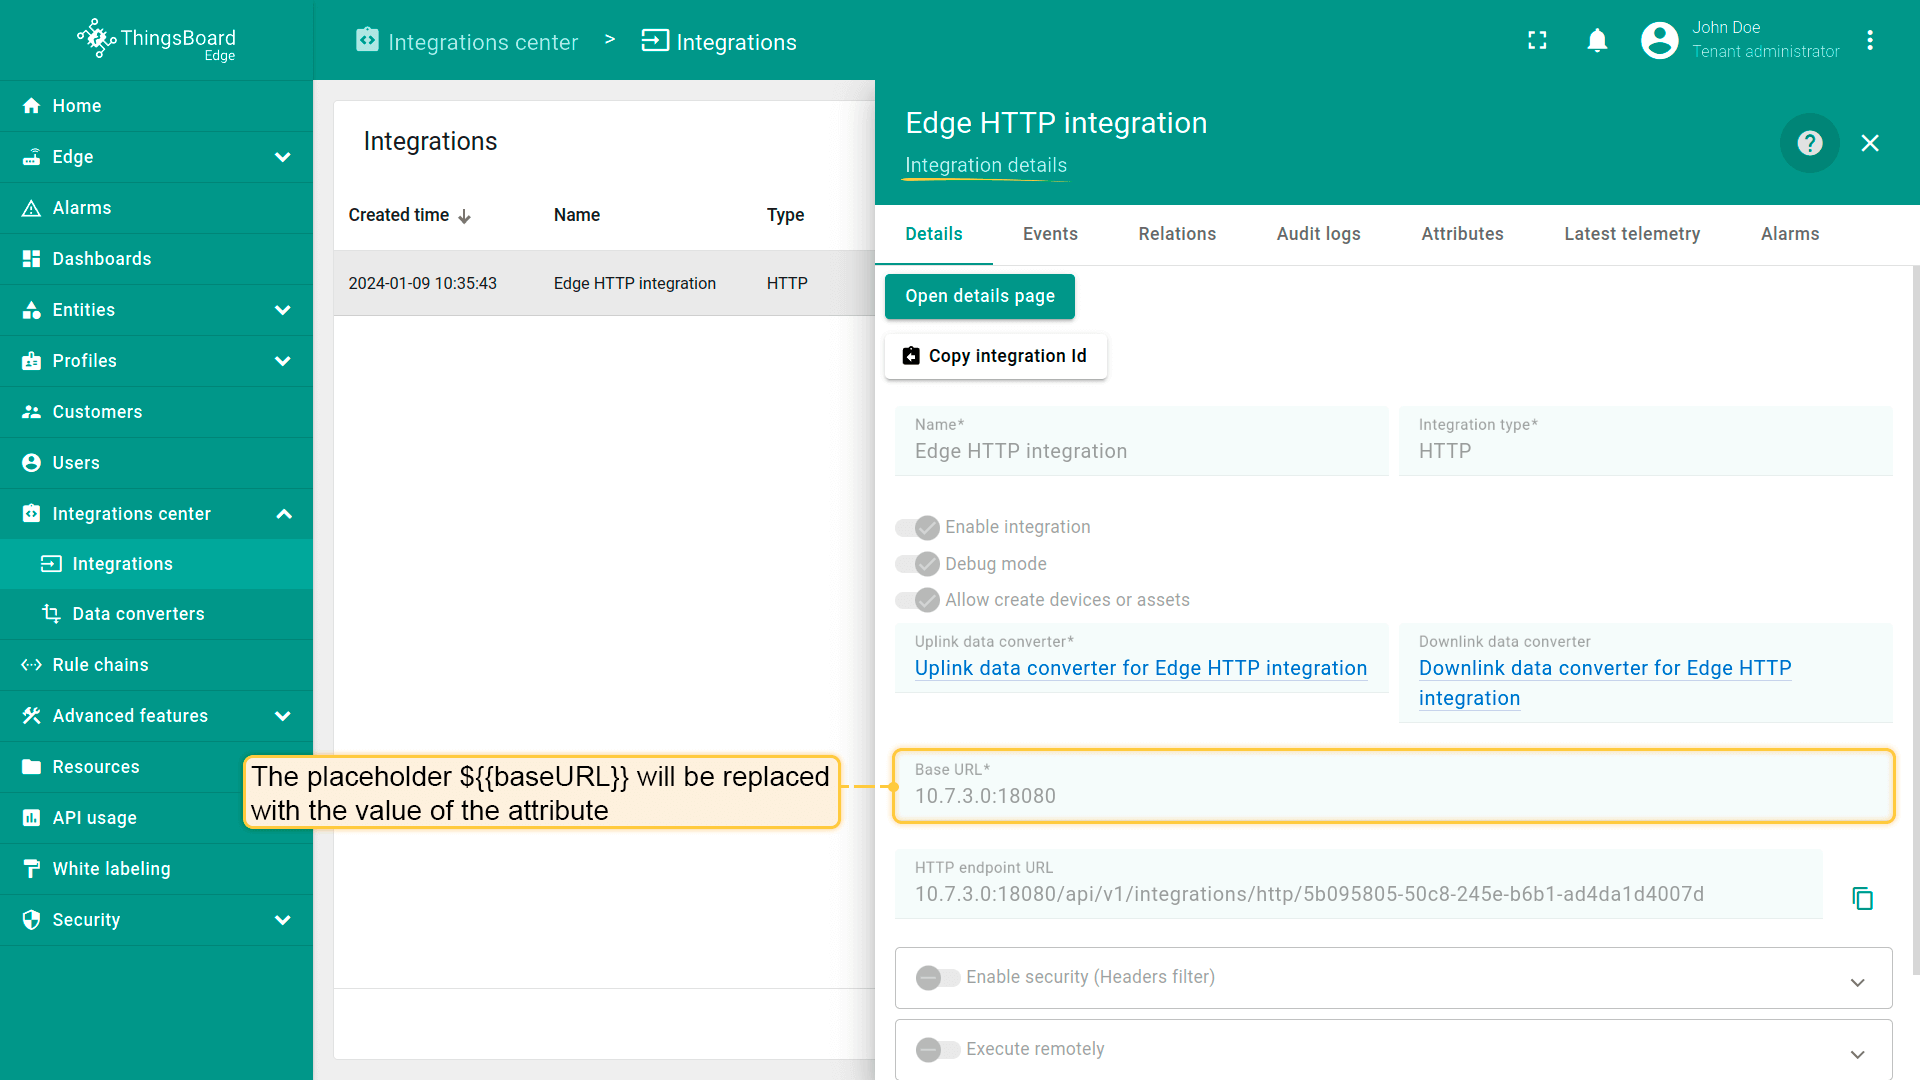
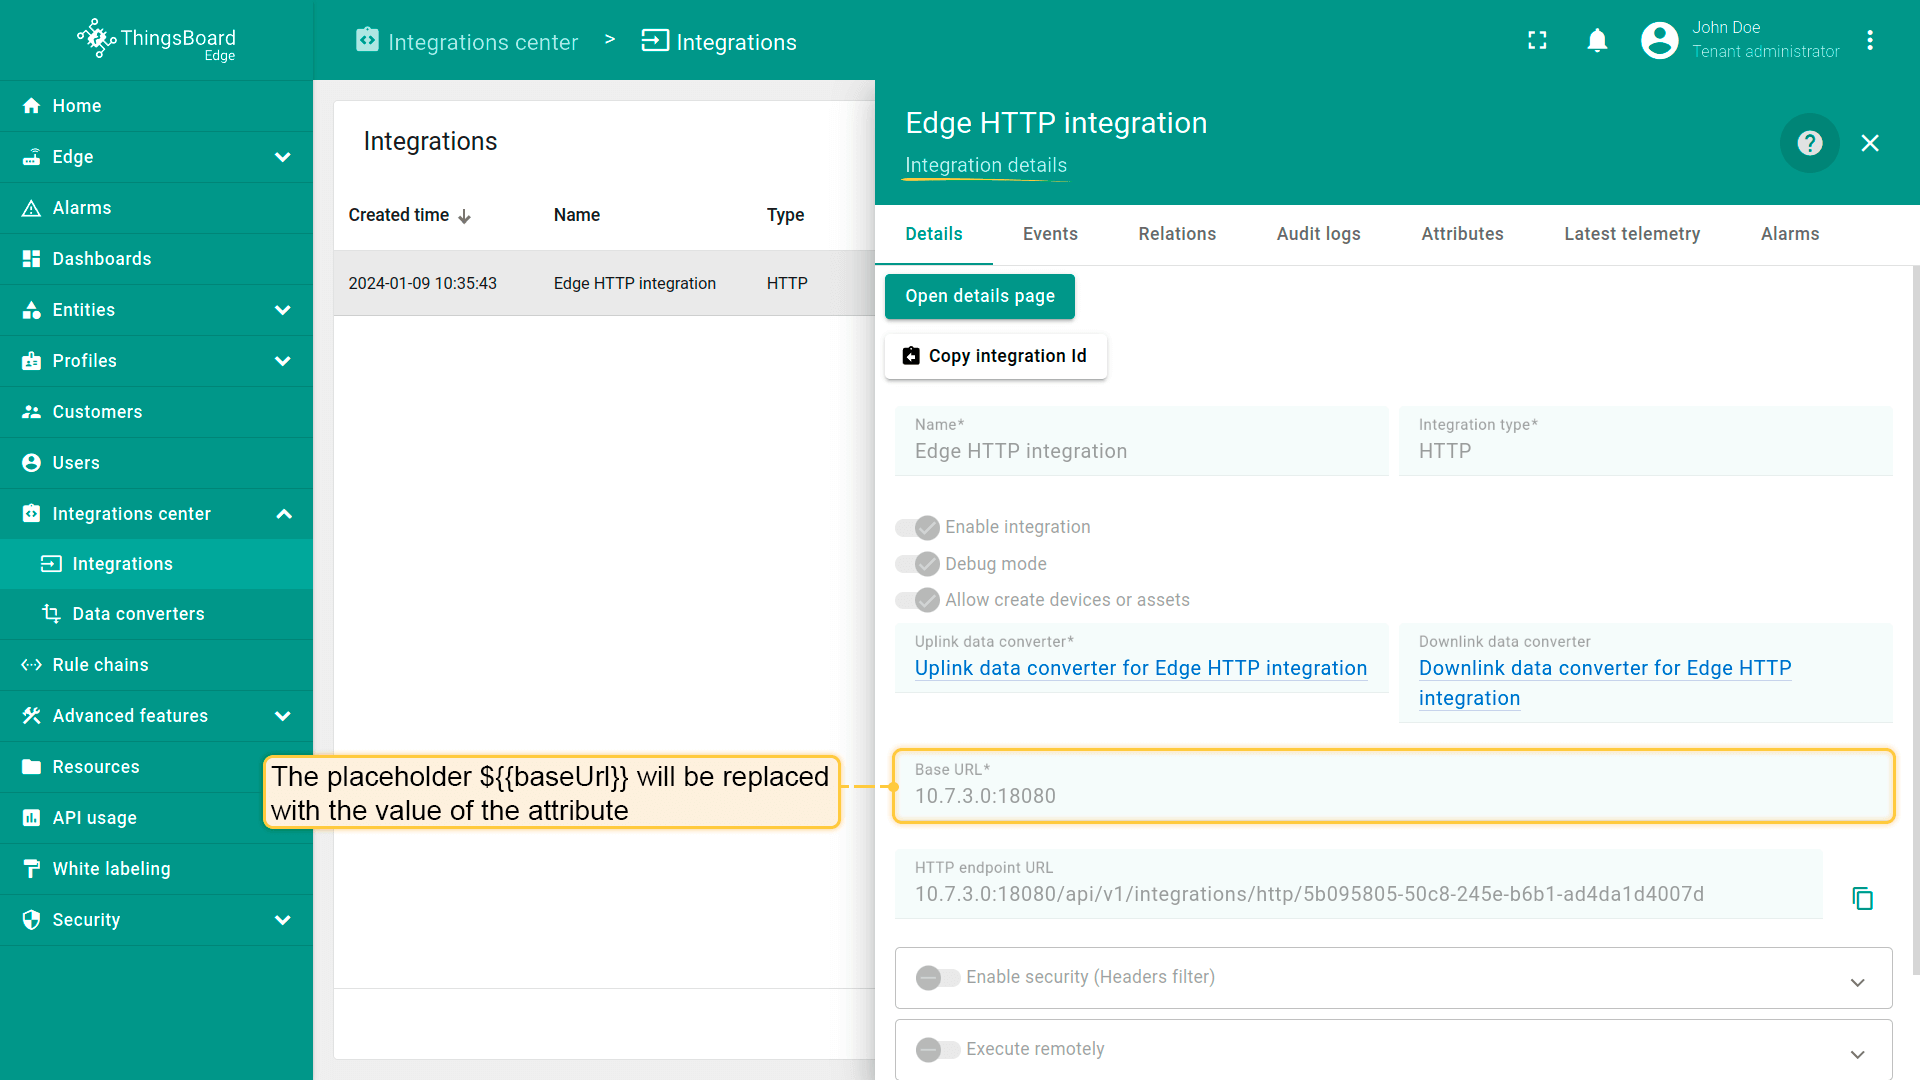
minor fixed text

Changed region(s): [[0.125, 0.7028, 0.3438, 0.7639], [0.4062, 0.7028, 0.4375, 0.7333]]

diff --git a/docs/pe/edge/user-guide/integrations/http.md b/docs/pe/edge/user-guide/integrations/http.md
@@ -35,7 +35,7 @@ assign-integration:
         title: 'Login to your <b>ThingsBoard Edge</b> instance and open "<b>Integrations center</b>" section -> "<b>Integrations</b>" page. You should see your integration. Click on it;'
     6:
         image: /images/pe/edge/integrations/http/assign-integration-7-edge.png
-        title: 'In the "<b>Integration details</b>" window placeholder <b>${{baseURL}}</b> will be replaced with the value of the attribute.'
+        title: 'In the "<b>Integration details</b>" window placeholder <b>${{baseUrl}}</b> will be replaced with the value of the attribute.'
 
 send-uplink:
     0:
@@ -116,8 +116,6 @@ Uplink is necessary in order to convert the incoming data from the device into t
 
 {% include templates/tbel-vs-js.md %}
 
-Copy the Uplink converter code:
-
 {% capture httpuplinkconverteredgeconfig %}
 TBEL<small>Recommended</small>%,%accessToken%,%templates/edge/integrations/http/http-uplink-converter-config-tbel.md%br%
 JavaScript<small></small>%,%anonymous%,%templates/edge/integrations/http/http-uplink-converter-config-javascript.md{% endcapture %}
@@ -131,8 +129,6 @@ Let’s consider an example where we send an attribute update message. For this 
 
 {% include templates/tbel-vs-js.md %}
 
-Copy the Downlink converter code:
-
 {% capture httpdownlinkconveredgeterconfig %}
 TBEL<small>Recommended</small>%,%accessToken%,%templates/edge/integrations/http/http-downlink-converter-config-tbel.md%br%
 JavaScript<small></small>%,%anonymous%,%templates/edge/integrations/http/http-downlink-converter-config-javascript.md{% endcapture %}
@@ -141,7 +137,7 @@ JavaScript<small></small>%,%anonymous%,%templates/edge/integrations/http/http-do
 - Finally, we go to the "**Connection**" page.
 
 You can use placeholder **$\{\{ATTRIBUTE_KEY\}\}** to substitute integration field with attribute value from specific Edge entity. 
-In this example, we will use the placeholder **$\{\{baseURL\}\}** for '**Base URL**'.
+In this example, we will use the placeholder **$\{\{baseUrl\}\}** for '**Base URL**'.
 Then, click the "Add" button.
 
 ![image](/images/pe/edge/integrations/http/add-http-integration-template-4-edge.png)

diff --git a/_includes/templates/edge/integrations/http/http-downlink-converter-config-javascript.md b/_includes/templates/edge/integrations/http/http-downlink-converter-config-javascript.md
@@ -1,4 +1,4 @@
-Copy the Uplink converter code:
+Copy the following script:
 
 ```ruby
 // Encode downlink data from incoming Rule Engine message
@@ -25,6 +25,6 @@ return result;
 ```
 {: .copy-code}
 
-Choose "Create new" and paste previously copied code to the encoder function and click "Next";
+Choose "Create new" and paste copied code to the Encoder function section. Click "Next";
 
 ![image](/images/pe/edge/integrations/http/add-http-integration-template-3-java-edge.png)

diff --git a/_includes/templates/edge/integrations/http/http-downlink-converter-config-tbel.md b/_includes/templates/edge/integrations/http/http-downlink-converter-config-tbel.md
@@ -1,4 +1,4 @@
-Copy the Uplink converter code:
+Copy the following script:
 
 ```ruby
 // Encode downlink data from incoming Rule Engine message
@@ -25,6 +25,6 @@ return result;
 ```
 {: .copy-code}
 
-Choose "Create new" and paste previously copied code to the encoder function and click "Next";
+Choose "Create new" and paste copied code to the Encoder function section. Click "Next";
 
 ![image](/images/pe/edge/integrations/http/add-http-integration-template-3-edge.png)

diff --git a/_includes/templates/edge/integrations/http/http-uplink-converter-config-javascript.md b/_includes/templates/edge/integrations/http/http-uplink-converter-config-javascript.md
@@ -1,4 +1,4 @@
-Copy the Uplink converter code:
+Copy the following script:
 
 ```ruby
 // Decode an uplink message from a buffer
@@ -46,6 +46,6 @@ return result;
 ```
 {: .copy-code}
 
-Choose "Create new" and paste previously copied code to the decoder function and click "Next";
+Choose "Create new" and paste copied code to the Decoder function section. Click "Next";
 
 ![image](/images/pe/edge/integrations/http/add-http-integration-template-2-java-edge.png)

diff --git a/_includes/templates/edge/integrations/http/http-uplink-converter-config-tbel.md b/_includes/templates/edge/integrations/http/http-uplink-converter-config-tbel.md
@@ -1,4 +1,4 @@
-Copy the Uplink converter code:
+Copy the following script:
 
 ```ruby
 // Decode an uplink message from a buffer
@@ -35,6 +35,6 @@ return result;
 ```
 {: .copy-code}
 
-Choose "Create new" and paste previously copied code to the decoder function and click "Next";
+Choose "Create new" and paste copied code to the Decoder function section. Click "Next";
 
 ![image](/images/pe/edge/integrations/http/add-http-integration-template-2-edge.png)
